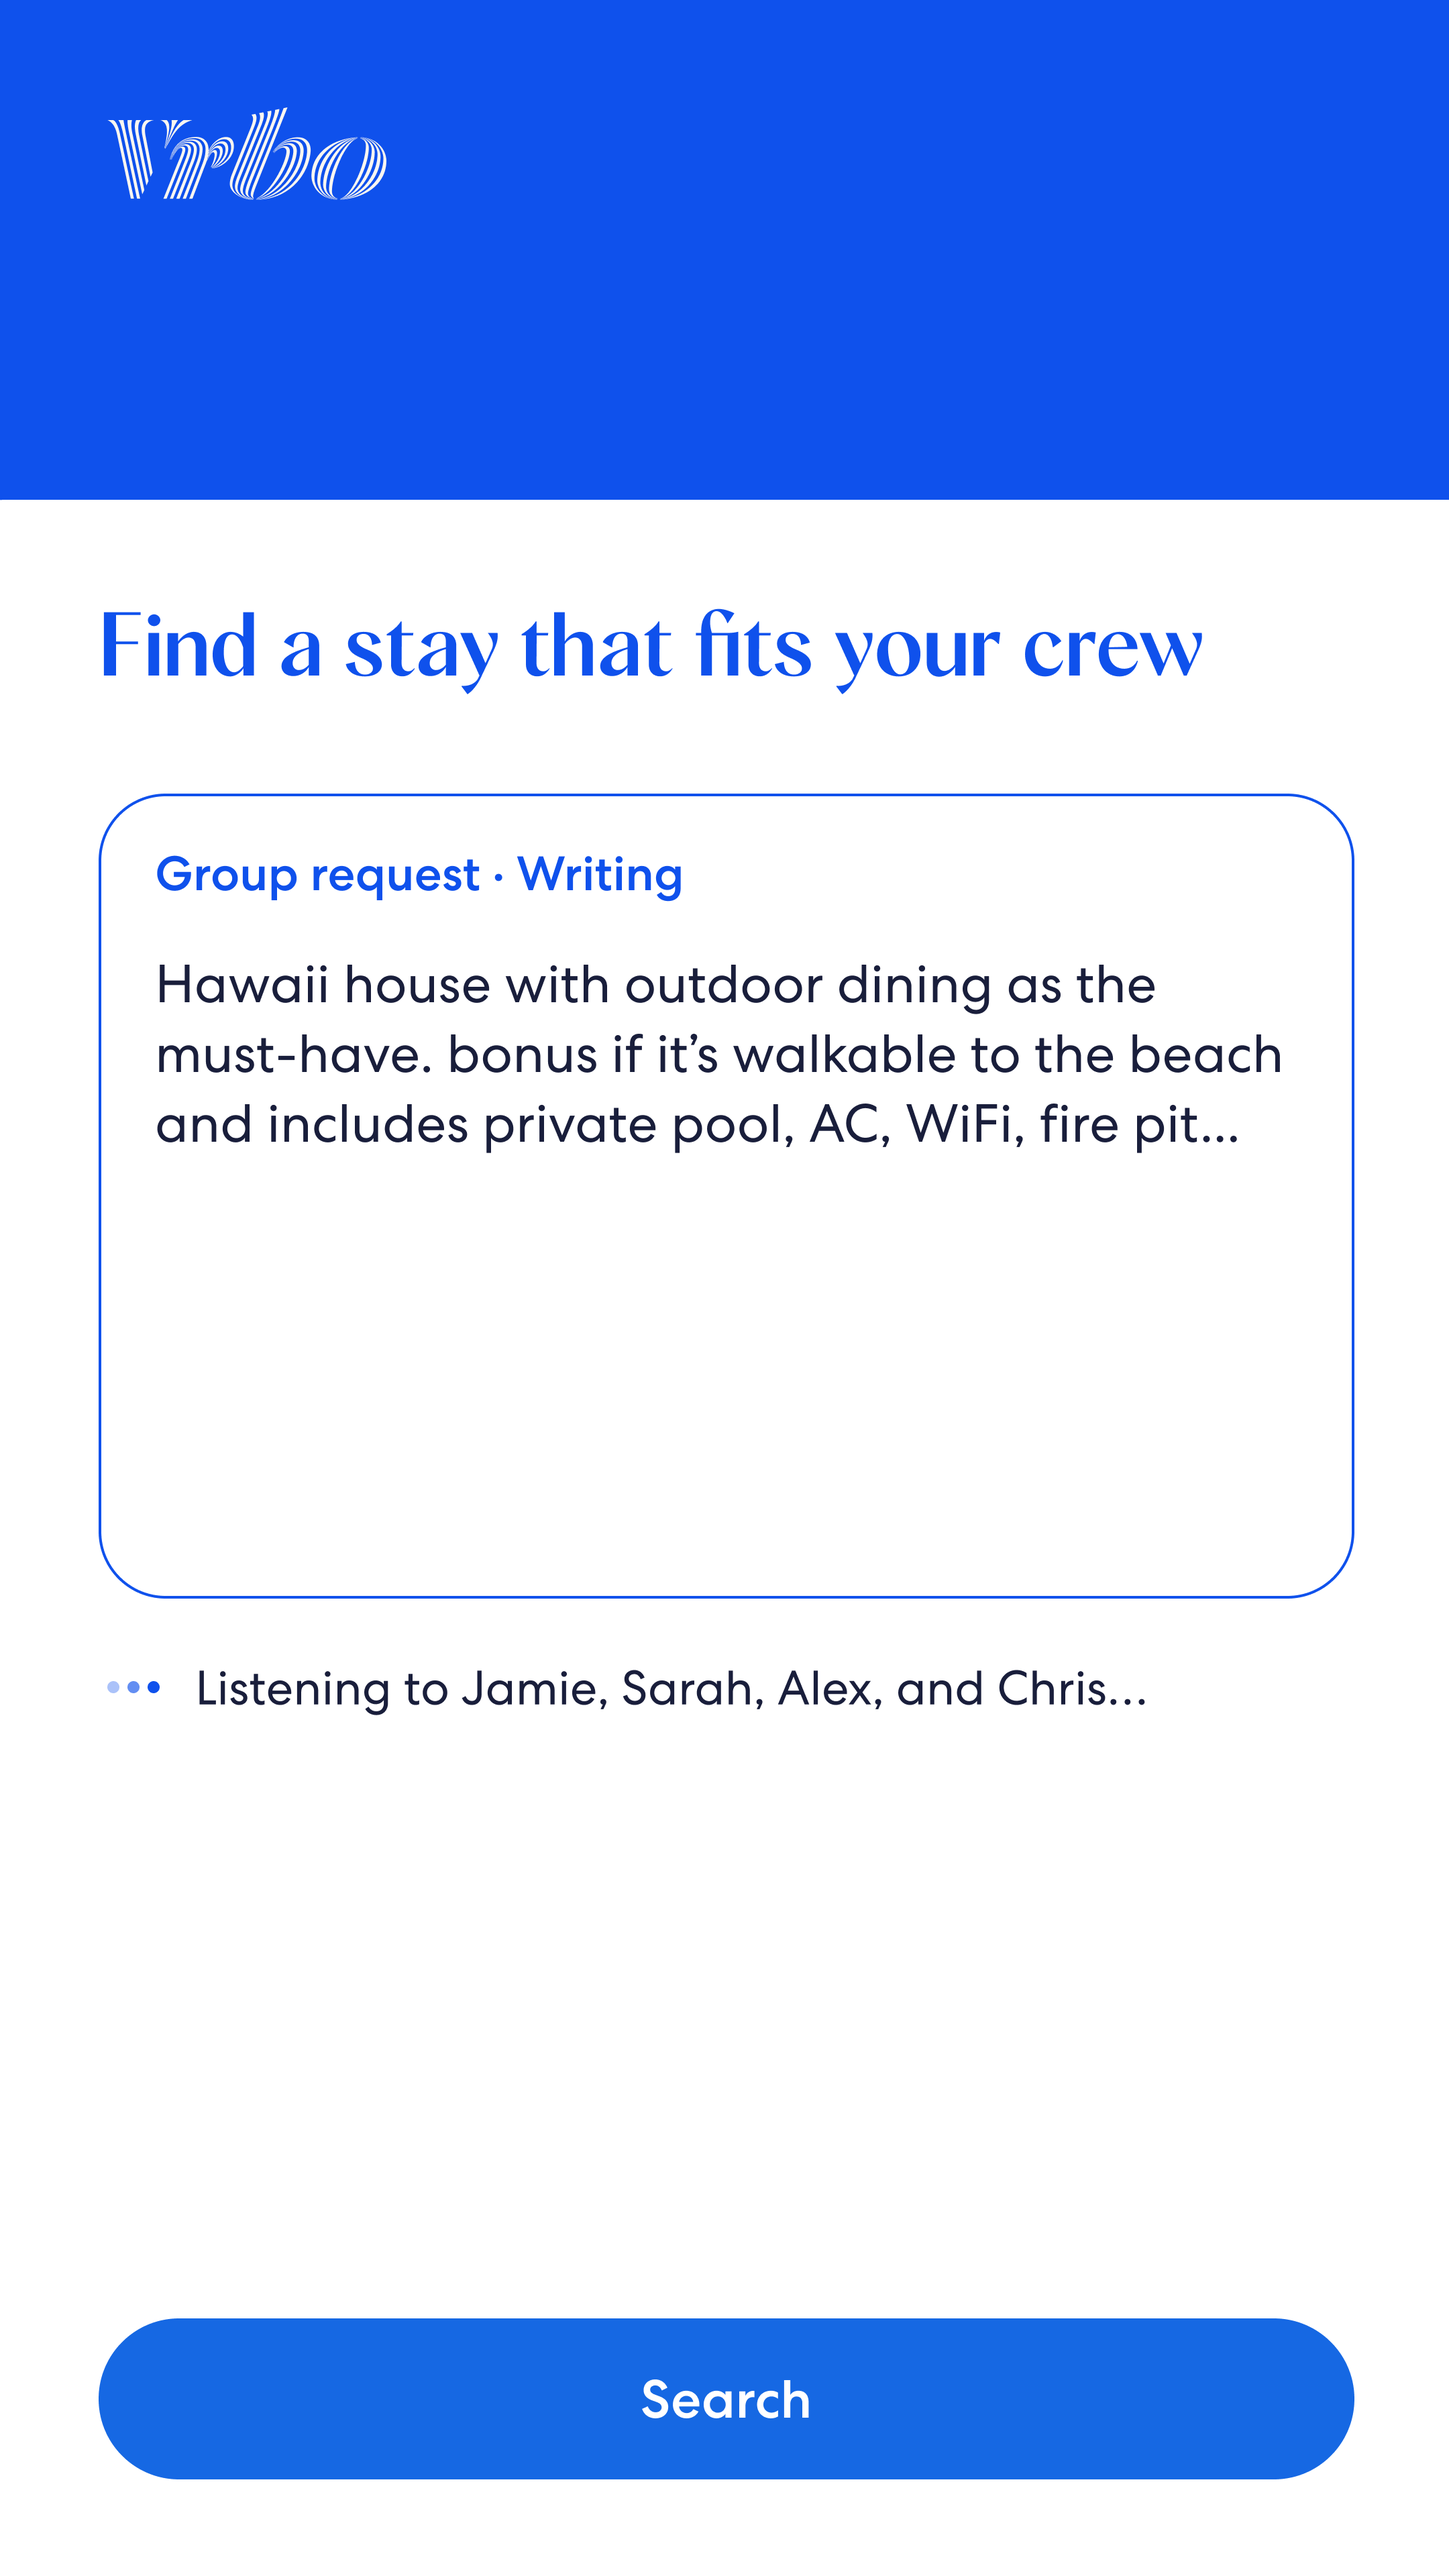
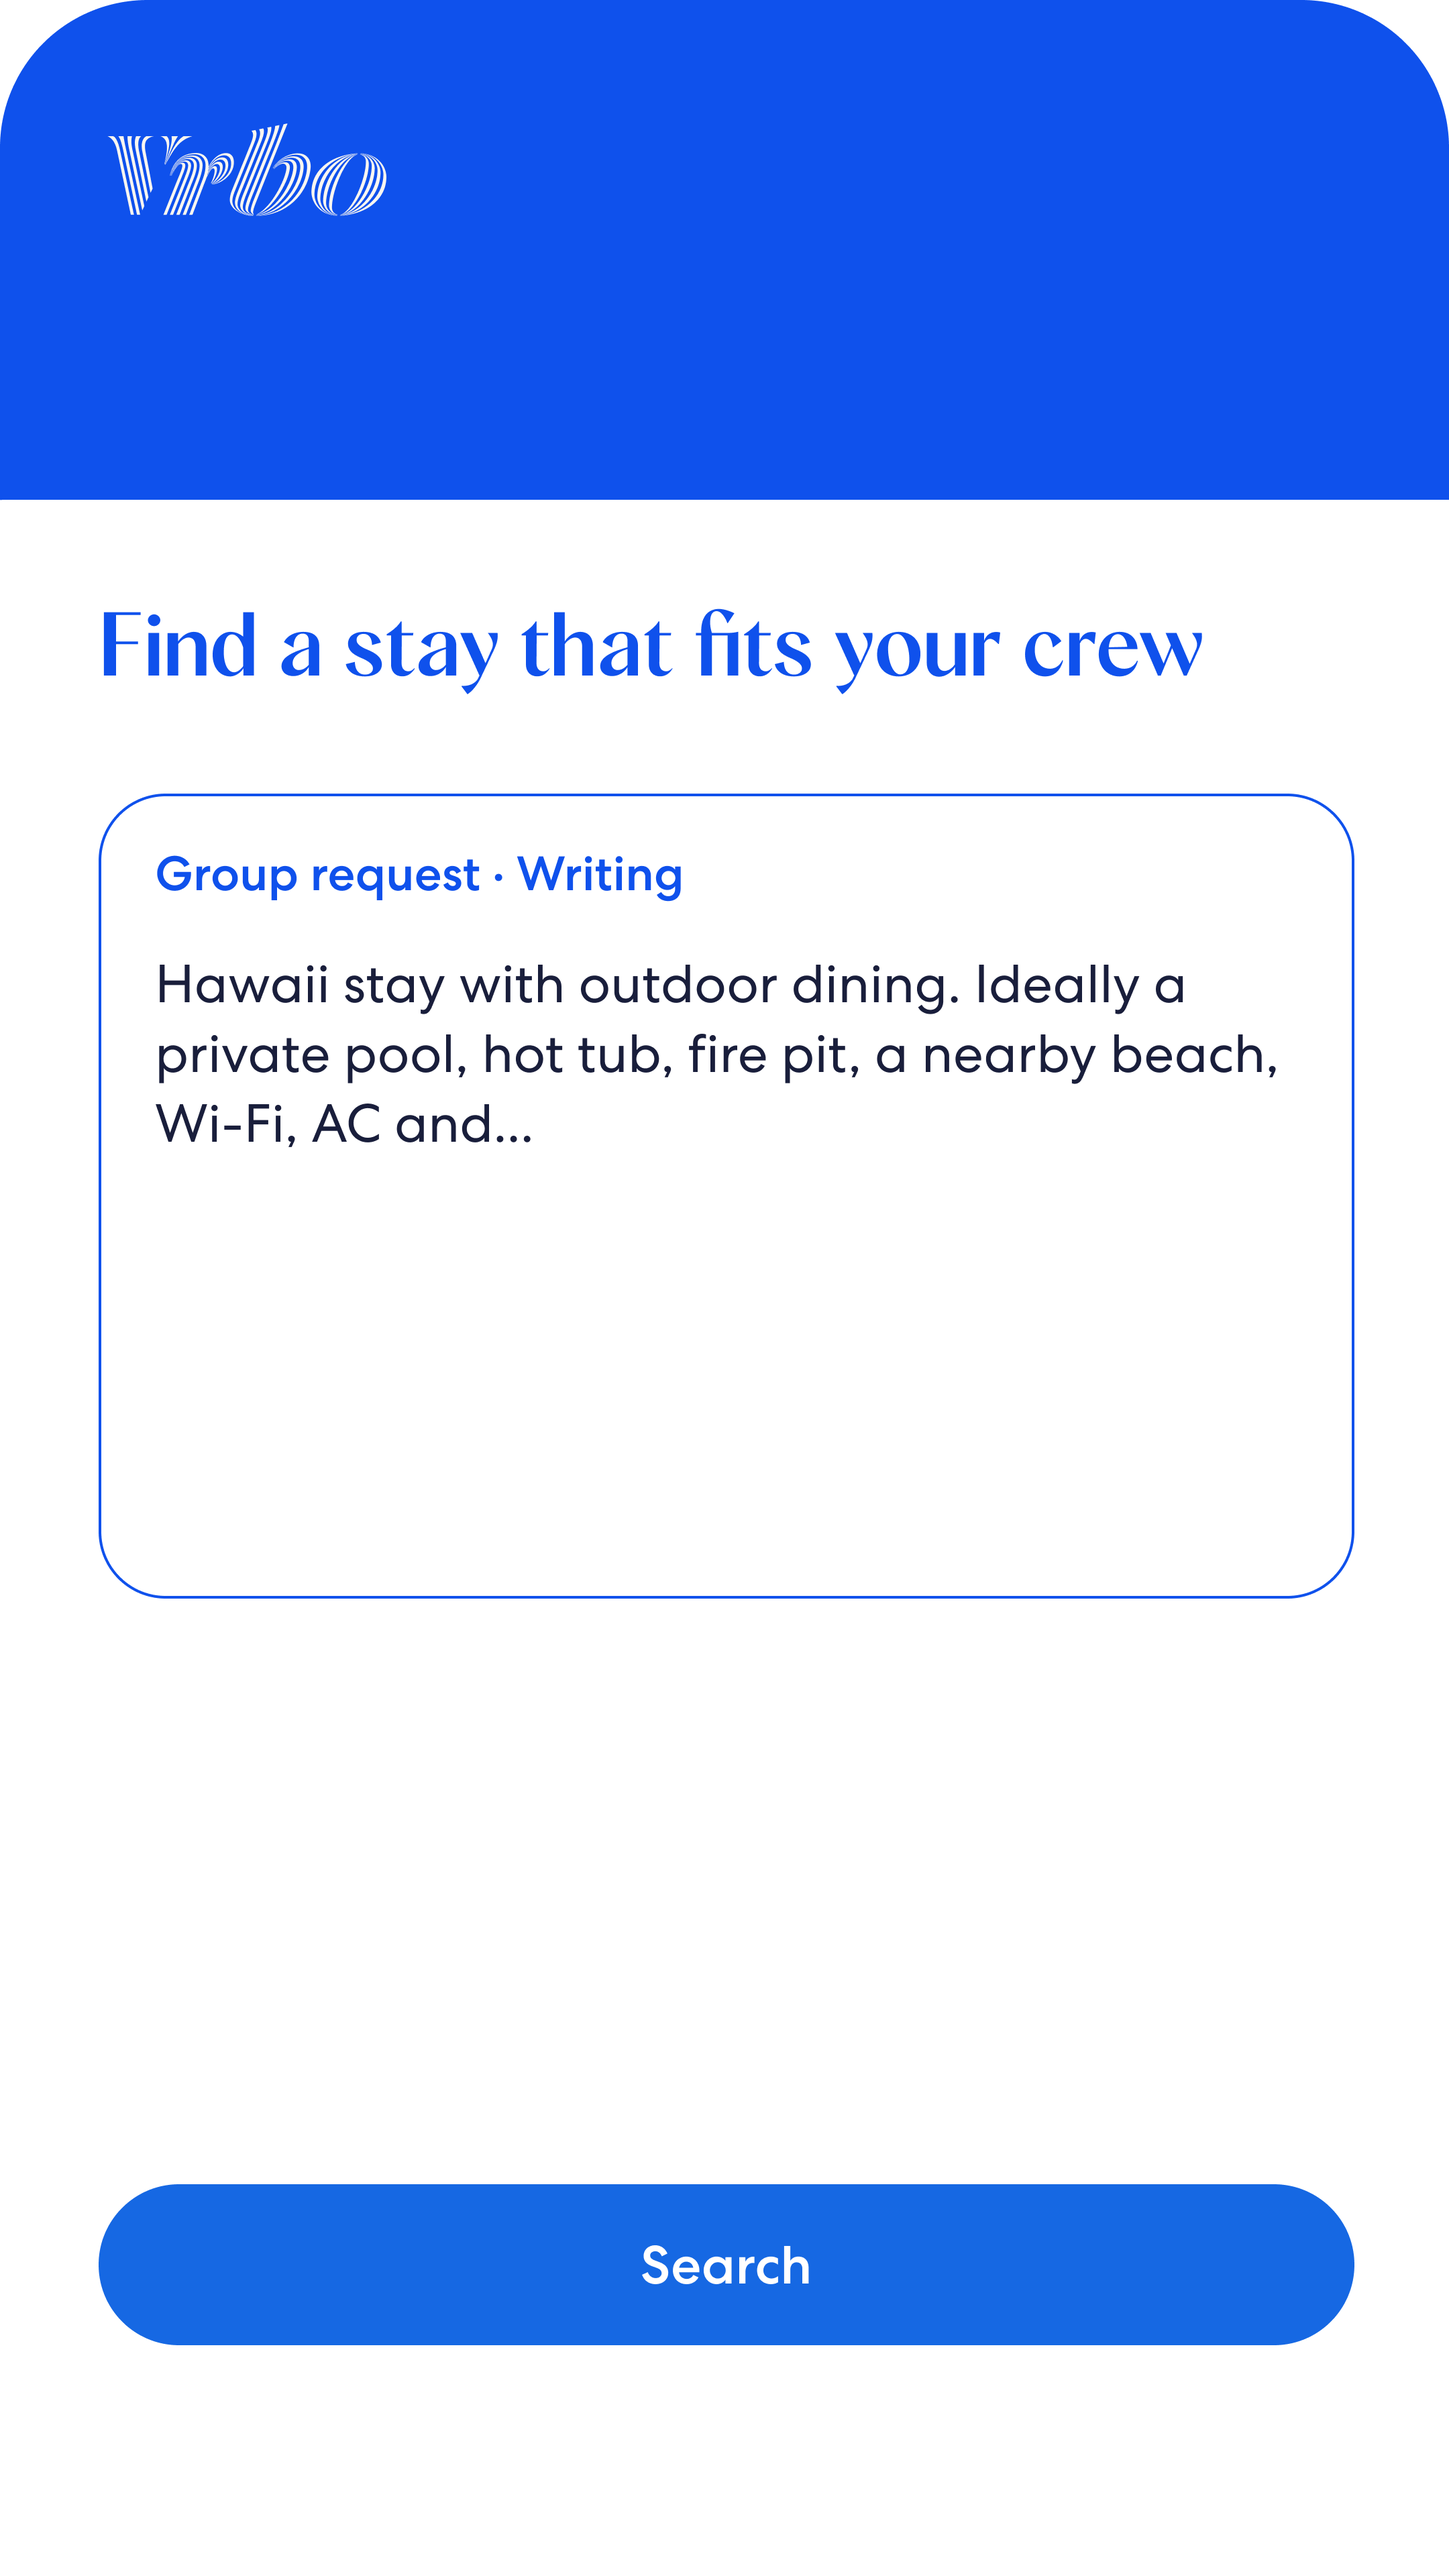
move up button

diff --git a/client/src/styles/vrbo-v2.css b/client/src/styles/vrbo-v2.css
@@ -588,6 +588,17 @@
   min-height: calc(2.4cqh * 2.5);
 }
 
+/* No pickup text → give the room back to the feed so the last bubble is never covered. */
+.vrbo-v2-chat__footer.is-empty {
+  min-height: 0;
+  padding-bottom: 0;
+}
+
+/* …and part of the body's bottom padding (4.5cqh → 2cqh; feed is capped at 100% of the content box). */
+.vrbo-v2-chat__body.is-footer-empty {
+  padding-bottom: 2cqh;
+}
+
 .vrbo-v2-chat__footer-text {
   margin: 0;
   font-family: var(--vrbo-v2-content);
@@ -1017,6 +1028,11 @@
   padding: 4.2cqh 5.5cqw 4.8cqh;
   background: #ffffff;
   box-sizing: border-box;
+}
+
+/* Display 2: lift Search to match the reference (bottom gap ≈ 8.9% of the screen height). */
+.vrbo-v2-summary:not(.vrbo-v2-summary--compact) .vrbo-v2-summary__body {
+  padding-bottom: 8.9cqh;
 }
 
 .vrbo-v2-summary__title {

diff --git a/client/src/components/vrbo-v2/MainChatScreen.jsx b/client/src/components/vrbo-v2/MainChatScreen.jsx
@@ -214,7 +214,7 @@ export default function MainChatScreen({
         <p className="vrbo-v2-chat__people is-opening-status">{peopleLine}</p>
       </header>
 
-      <div className="vrbo-v2-chat__body">
+      <div className={`vrbo-v2-chat__body${showPickupFooter ? "" : " is-footer-empty"}`}>
         {joinToast ? (
           <p key={joinToast.id} className="vrbo-v2-chat__join-toast" role="status">
             {joinToast.text}
@@ -274,7 +274,7 @@ export default function MainChatScreen({
           ) : null}
         </div>
 
-        <div className="vrbo-v2-chat__footer">
+        <div className={`vrbo-v2-chat__footer${showPickupFooter ? "" : " is-empty"}`}>
           {showPickupFooter ? (
             <p className="vrbo-v2-chat__footer-text is-pickup-hop">
               Pick up a phone
